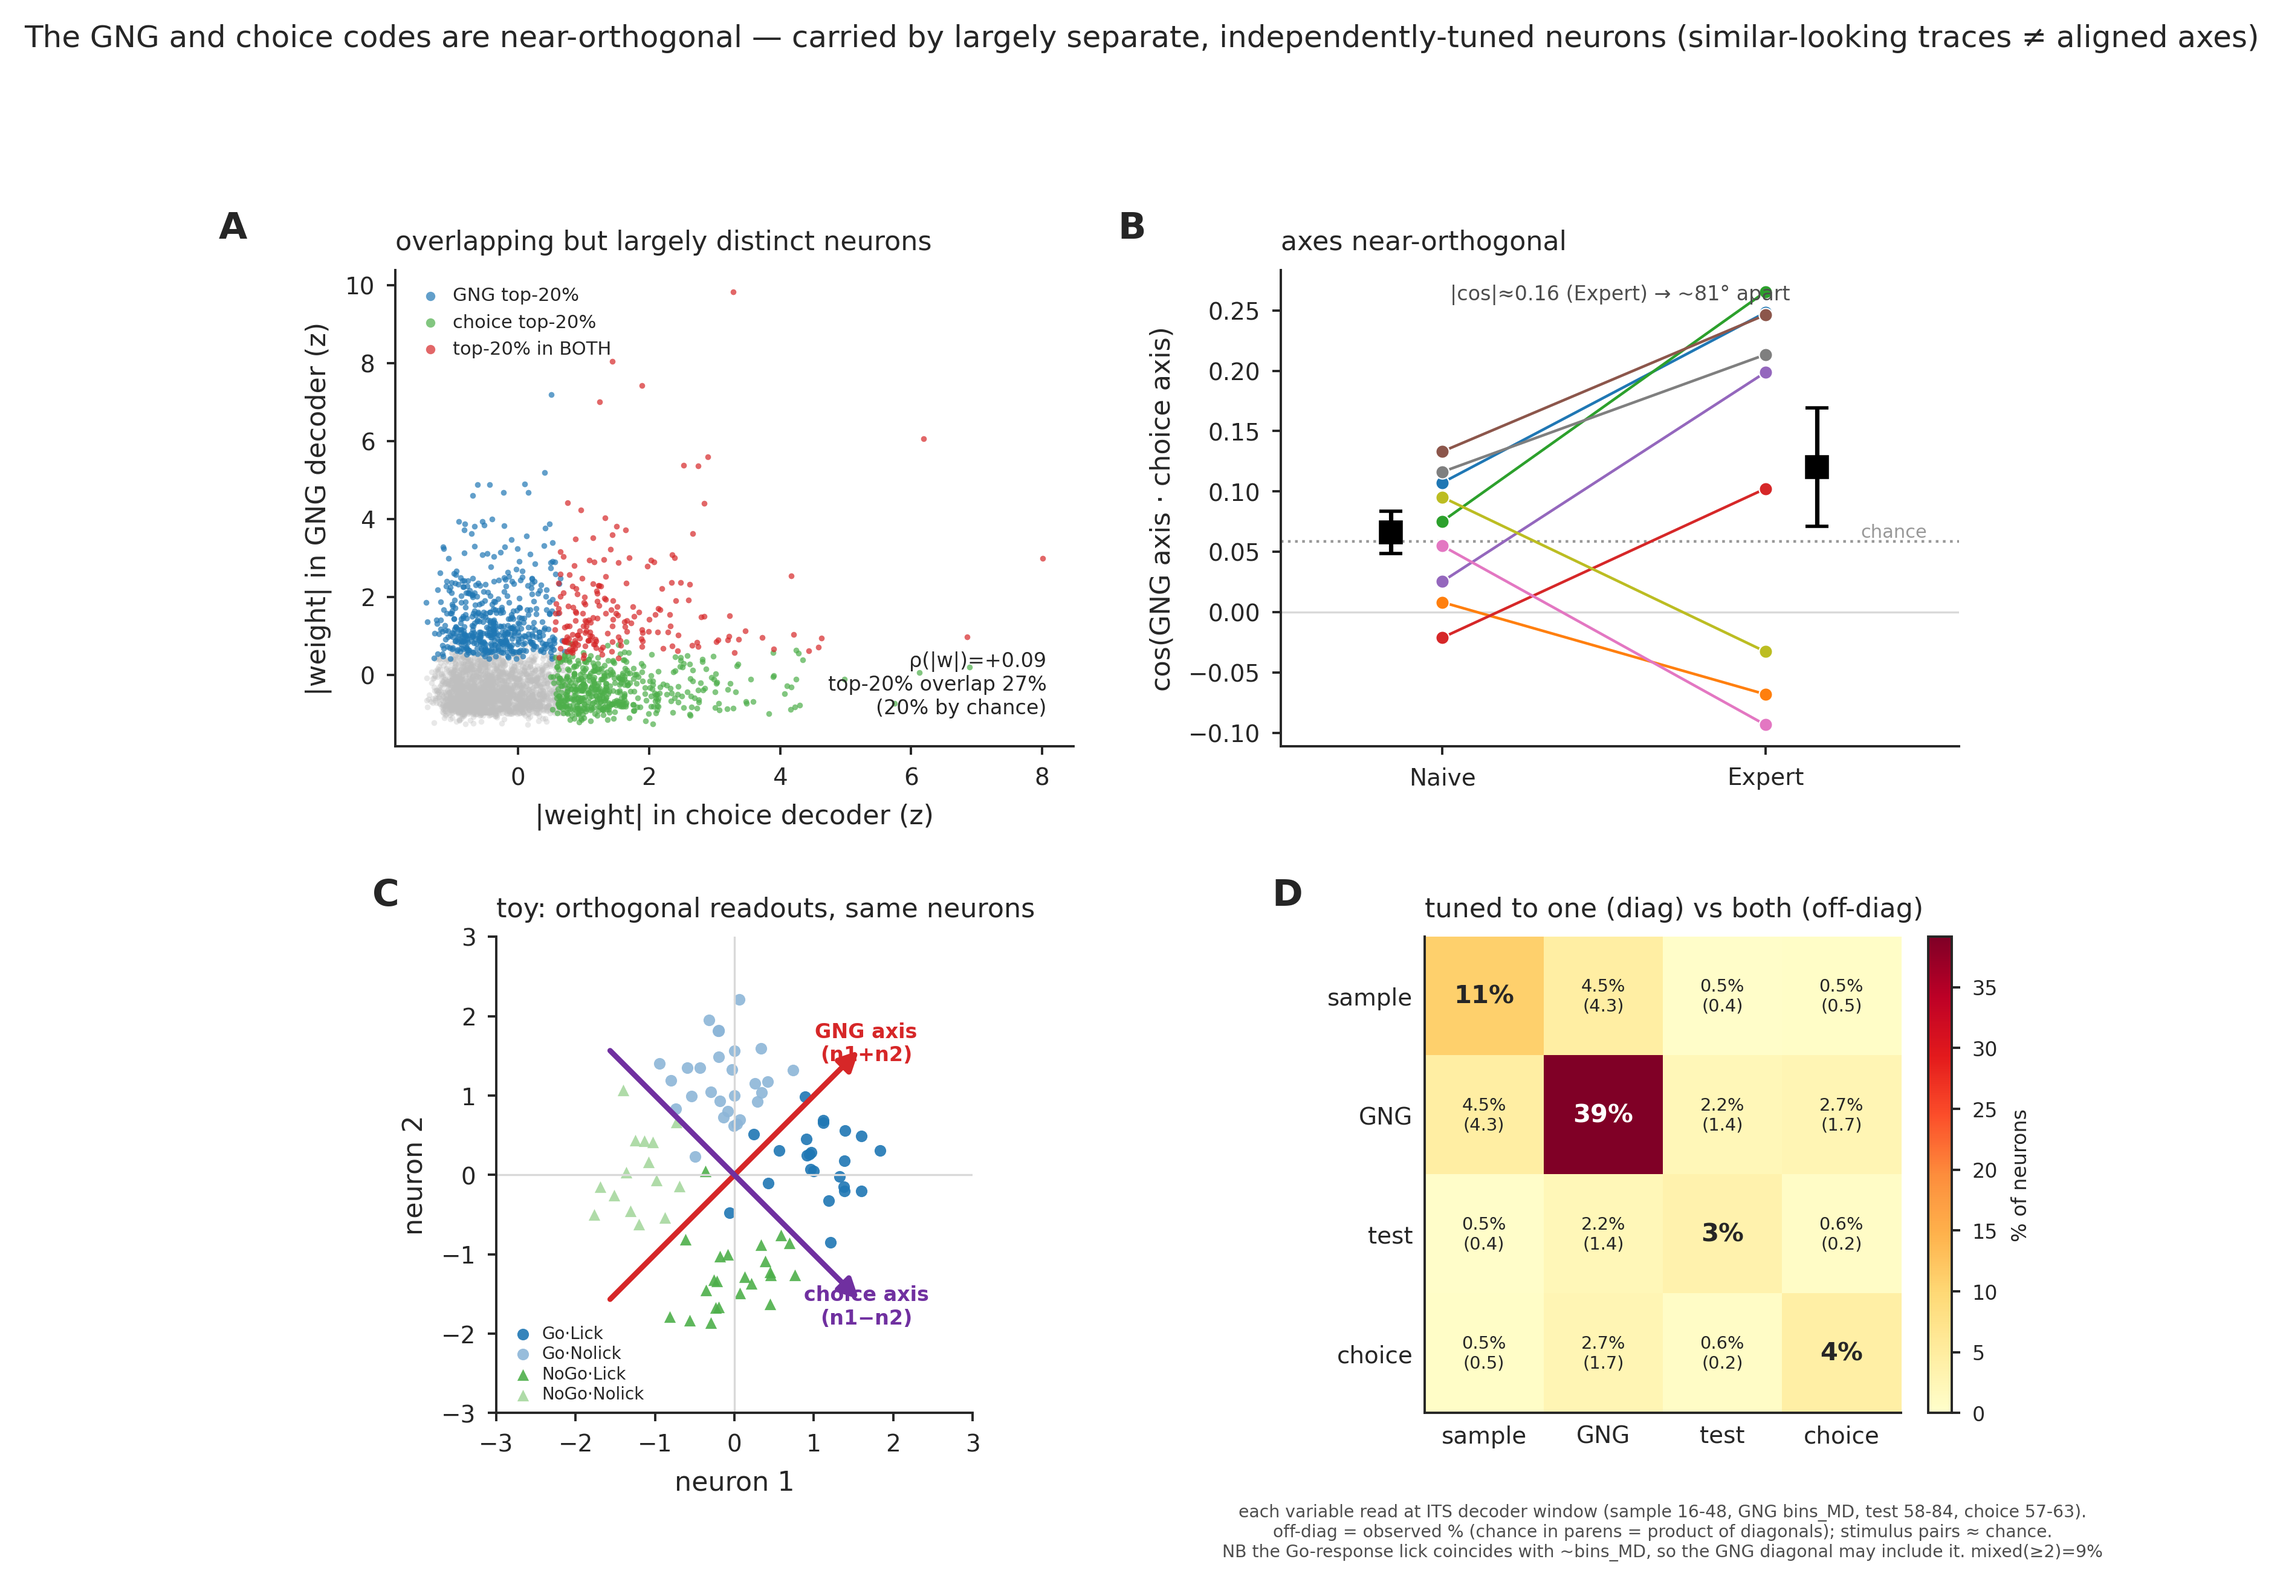
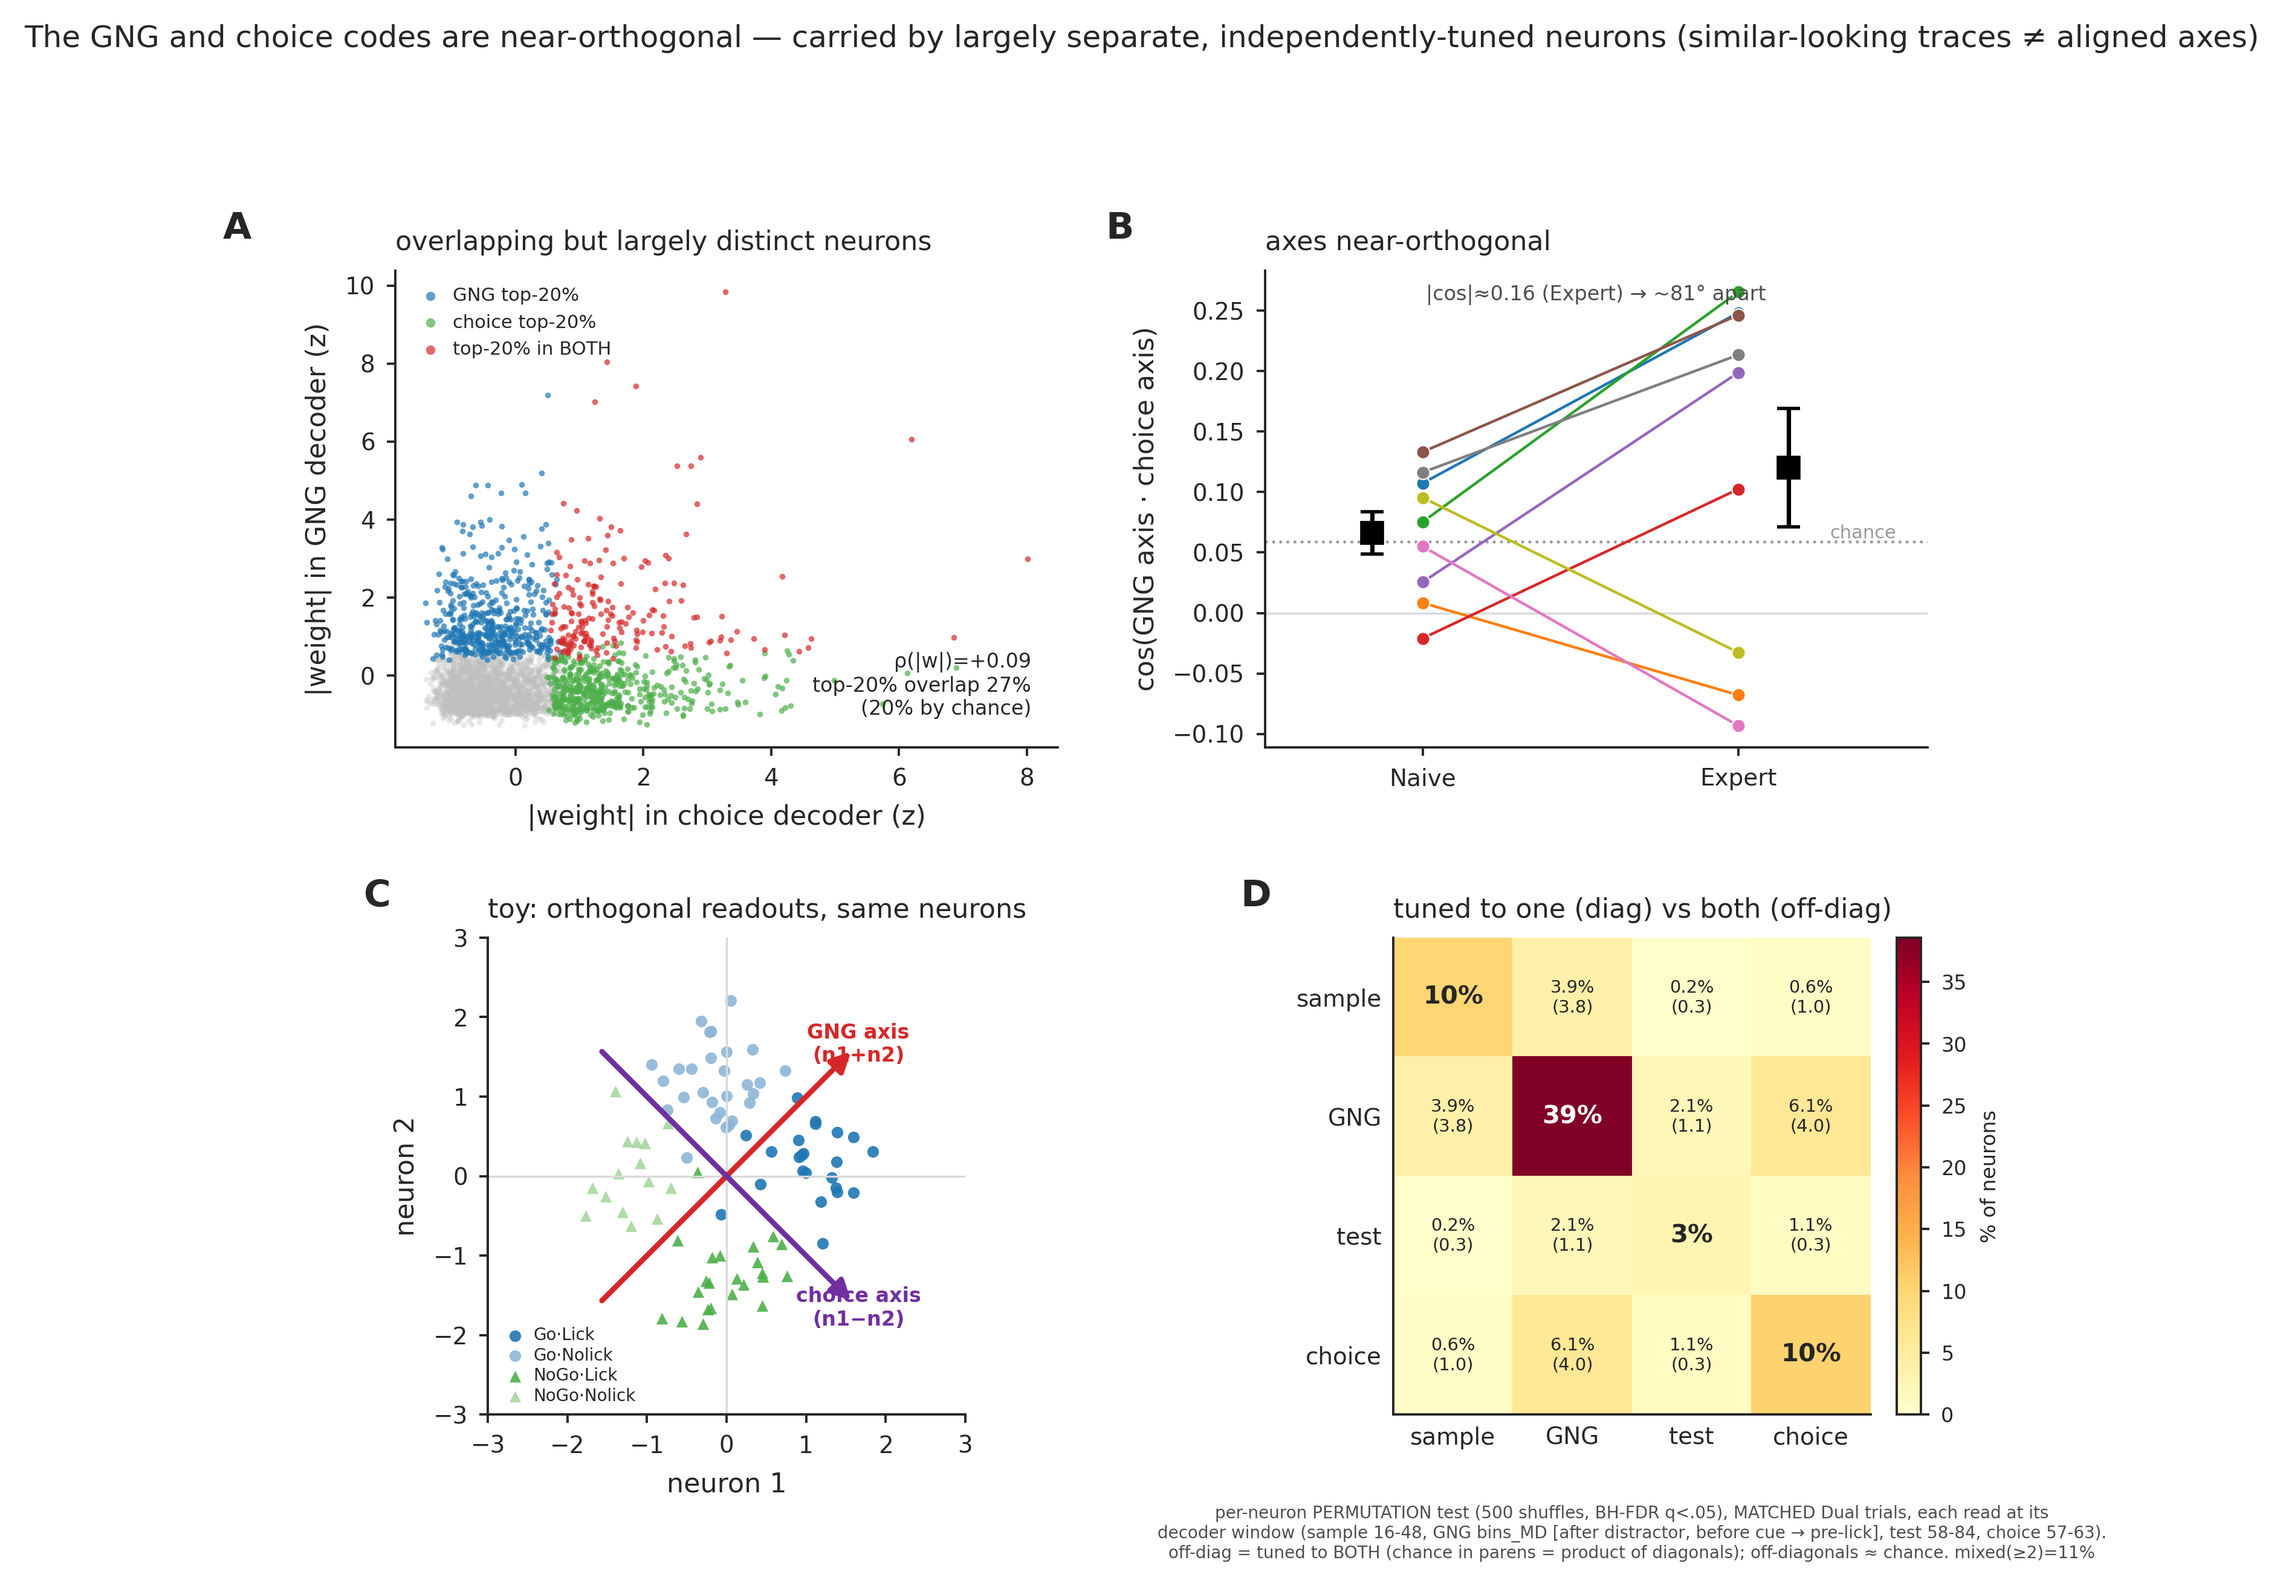
overlaps mixed-sel supp: permutation-test selectivity matrix (panel D)
Panel D now computes per-neuron selectivity with a label-permutation test
(500 shuffles -> each neuron's own |d'| null, BH-FDR q<.05) instead of an
arbitrary |d'|>0.3 threshold. All four variables read on the SAME matched
Dual trials, each at its decoder window (sample 16-48, GNG bins_MD, test
58-84, choice 57-63).

Result: sample 10% / GNG 39% / test 3% / choice 10%; off-diagonals ~ chance
(independent tuning, mixed>=2 ~11%). The GNG>>sample gap is a genuine
property of the data, not a bug: confirmed against parametric+permutation
FDR, threshold-free mean|d'| (0.28 vs 0.16), matched trials, every sample
window, the interleaved (non-blocked) design, and direct computation from
raw get_X_y_days bypassing X_all (sample 9% / GNG 37%). bins_MD (6.0-6.5s)
is pre-lick (distractor 5.0-5.5s, Go cue 6.5s), so GNG@MD is not the Go-lick.
Interpretation: at MD the Go/NoGo variable is action-relevant (imminent
cue) and engages the population broadly, whereas sample is purely mnemonic.

diff --git a/overlaps/fig_overlaps_mixed_selectivity_supp.py b/overlaps/fig_overlaps_mixed_selectivity_supp.py
@@ -64,34 +64,43 @@ zx = np.concatenate(zx); zy = np.concatenate(zy); cat = np.concatenate(cat)
 rho = np.mean([spearmanr(np.abs(axes_mouse(m, 'Expert')[0]), np.abs(axes_mouse(m, 'Expert')[1]))[0] for m in MICE])
 chance = np.mean([1 / np.sqrt(len(axes_mouse(m, 'Naive')[0])) for m in MICE])
 
-# ── D input: per-neuron selectivity to the 4 variables (Welch t + BH-FDR) ──
+# ── D input: per-neuron selectivity via a PERMUTATION test (no effect-size threshold) ──
 print('loading X_all …', flush=True)
 Xall = np.asarray(pkl_load('X_all_nan_', path='../data/pca')); yall = pkl_load('y_all_nan_', path='../data/pca')
 yall['gng'] = np.where(yall.tasks.to_numpy() == 'DualGo', 1.0,           # derive gng (not in raw labels): Go=1 / NoGo=0
                        np.where(yall.tasks.to_numpy() == 'DualNoGo', 0.0, np.nan))
 lo = (yall.laser == 0).to_numpy(); dpa = (yall.tasks == 'DPA').to_numpy(); mo = yall.mouse.to_numpy()
-# Each variable read at ITS OWN DECODER window (same train-bin averaging as the main-figure codes):
-# sample 16-48, GNG bins_MD (36-38), test 58-84, choice 57-63. NB the Go-response lick coincides with
-# ~bins_MD (peaks ~5.2-5.8s post-sample; neural↔behaviour alignment uncertain ~1s), so the GNG diagonal
-# read here may include the Go-lick (Go=lick/NoGo=withhold) as well as the Go/NoGo odour — see report.
-VARS = [('sample', np.arange(16, 48), 'sample_odor', True), ('GNG', MD, 'gng', False),
-        ('test', np.arange(58, 84), 'test_odor', True), ('choice', np.arange(57, 63), 'choice', True)]
+# All four variables tested on the SAME Dual (Go/NoGo) trials — sample/test/choice are all present there —
+# so trial counts (power) are MATCHED across variables. Each read at its decoder window: sample 16-48,
+# GNG bins_MD (per options.py AFTER distractor [4.5,5.5]s, BEFORE cue [6.5,7]s → pre-lick), test 58-84,
+# choice 57-63. Selectivity = per-neuron PERMUTATION test: shuffle the class labels NPERM times to build
+# each neuron's OWN null for |d'|; p=(#null≥obs +1)/(NPERM+1); BH-FDR q<0.05. No effect-size cutoff.
+VARS = [('sample', np.arange(16, 48), 'sample_odor'), ('GNG', MD, 'gng'),
+        ('test', np.arange(58, 84), 'test_odor'), ('choice', np.arange(57, 63), 'choice')]
 VLAB = [v[0] for v in VARS]
+NPERM = 500; RNG = np.random.default_rng(0)
+
+
+def dprime(A, m1):                                           # |d'| per neuron for a boolean split m1
+    a, b = A[m1], A[~m1]
+    return np.abs(a.mean(0) - b.mean(0)) / (np.sqrt((a.var(0, ddof=1) + b.var(0, ddof=1)) / 2) + 1e-9)
+
+
 SEL = []                                                     # per neuron: boolean tuning to each of the 4 variables
 for m in MICE:
     val = VALID[(m, 'Expert')]; nsig = np.zeros((int(val.sum()), 4), bool)
-    for j, (nm, win, col, is_dpa) in enumerate(VARS):
-        idx = lo & (mo == m) & (dpa if is_dpa else ~dpa)
-        A = np.nanmean(Xall[idx][:, val, :][:, :, win], axis=2)   # (ntr, nneur)
-        lab = yall.loc[idx, col].to_numpy().astype(float); ok = np.isfinite(lab)
-        A, lab = A[ok], lab[ok]
-        a, b = A[lab == 1], A[lab == 0]
-        if len(a) < 3 or len(b) < 3:
+    dual = lo & (mo == m) & ~dpa
+    for j, (nm, win, col) in enumerate(VARS):
+        A = np.nan_to_num(np.nanmean(Xall[dual][:, val, :][:, :, win], axis=2))   # (ntr, nneur), matched Dual trials
+        lab = yall.loc[dual, col].to_numpy().astype(float); ok = np.isfinite(lab)
+        A, lab = A[ok], (lab[ok] == 1)
+        if lab.sum() < 5 or (~lab).sum() < 5:
             continue
-        _, p = ttest_ind(a, b, axis=0, equal_var=False, nan_policy='omit')
-        p = np.where(np.isfinite(p), p, 1.0)
-        nsig[:, j] = fdrcorrection(p, alpha=0.05)[0]
-    SEL.append(nsig)
+        obs = dprime(A, lab); cnt = np.ones(A.shape[1])      # +1 (add-one)
+        for _ in range(NPERM):
+            cnt += dprime(A, RNG.permutation(lab)) >= obs
+        nsig[:, j] = fdrcorrection(cnt / (NPERM + 1), alpha=0.05)[0]
+    SEL.append(nsig); print(f'  {m} done', flush=True)
 SEL = np.concatenate(SEL, 0)                                  # (n_neurons, 4)
 Mmat = np.zeros((4, 4))
 for i in range(4):
@@ -158,10 +167,10 @@ for i in range(4):
 d.set_xticks(range(4)); d.set_xticklabels(VLAB); d.set_yticks(range(4)); d.set_yticklabels(VLAB)
 d.tick_params(length=0)
 d.set_title('tuned to one (diag) vs both (off-diag)', loc='left', fontsize=TITLE_FS)
-d.text(0.5, -0.19, 'each variable read at ITS decoder window (sample 16-48, GNG bins_MD, test 58-84, choice 57-63).\n'
-       'off-diag = observed % (chance in parens = product of diagonals); stimulus pairs ≈ chance.\n'
-       f'NB the Go-response lick coincides with ~bins_MD, so the GNG diagonal may include it. mixed(≥2)={mixed*100:.0f}%',
-       transform=d.transAxes, ha='center', va='top', fontsize=5.1, color='0.3')
+d.text(0.5, -0.19, 'per-neuron PERMUTATION test (500 shuffles, BH-FDR q<.05), MATCHED Dual trials, each read at its\n'
+       'decoder window (sample 16-48, GNG bins_MD [after distractor, before cue → pre-lick], test 58-84, choice 57-63).\n'
+       f'off-diag = tuned to BOTH (chance in parens = product of diagonals); off-diagonals ≈ chance. mixed(≥2)={mixed*100:.0f}%',
+       transform=d.transAxes, ha='center', va='top', fontsize=5.0, color='0.3')
 cb = fig.colorbar(im, ax=d, fraction=0.046, pad=0.04); cb.ax.tick_params(labelsize=6); cb.set_label('% of neurons', fontsize=6)
 d.text(-0.32, 1.05, 'D', transform=d.transAxes, fontsize=11, fontweight='bold', va='bottom', ha='left')
 
